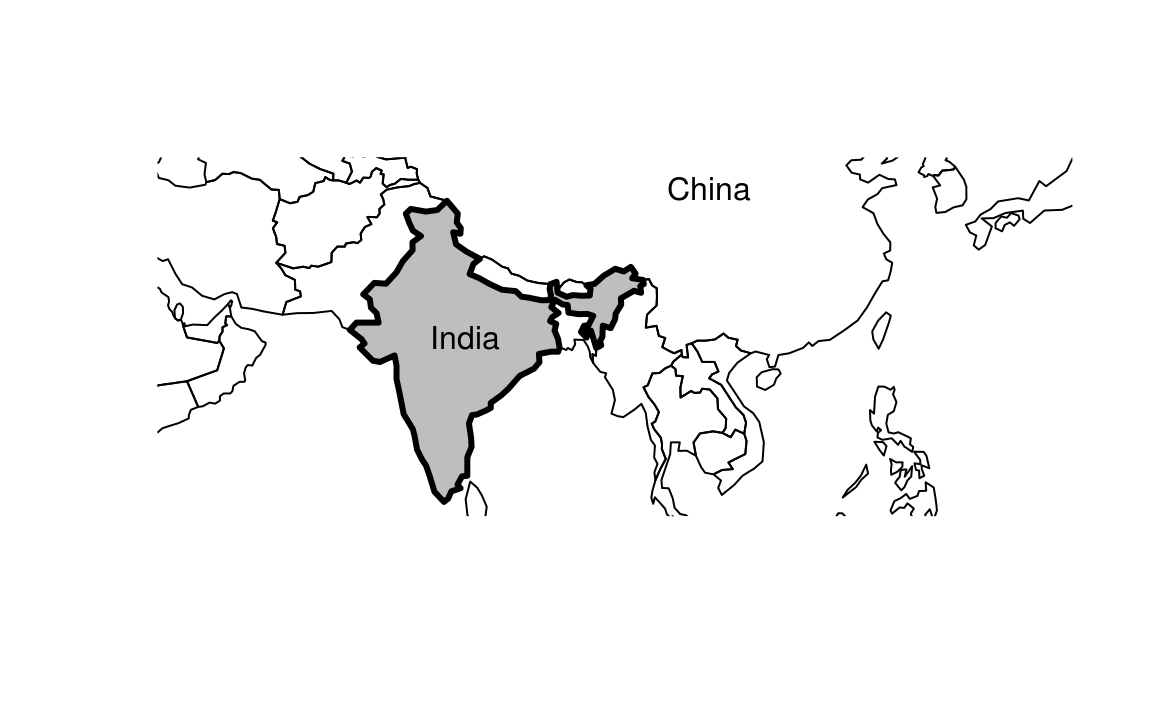
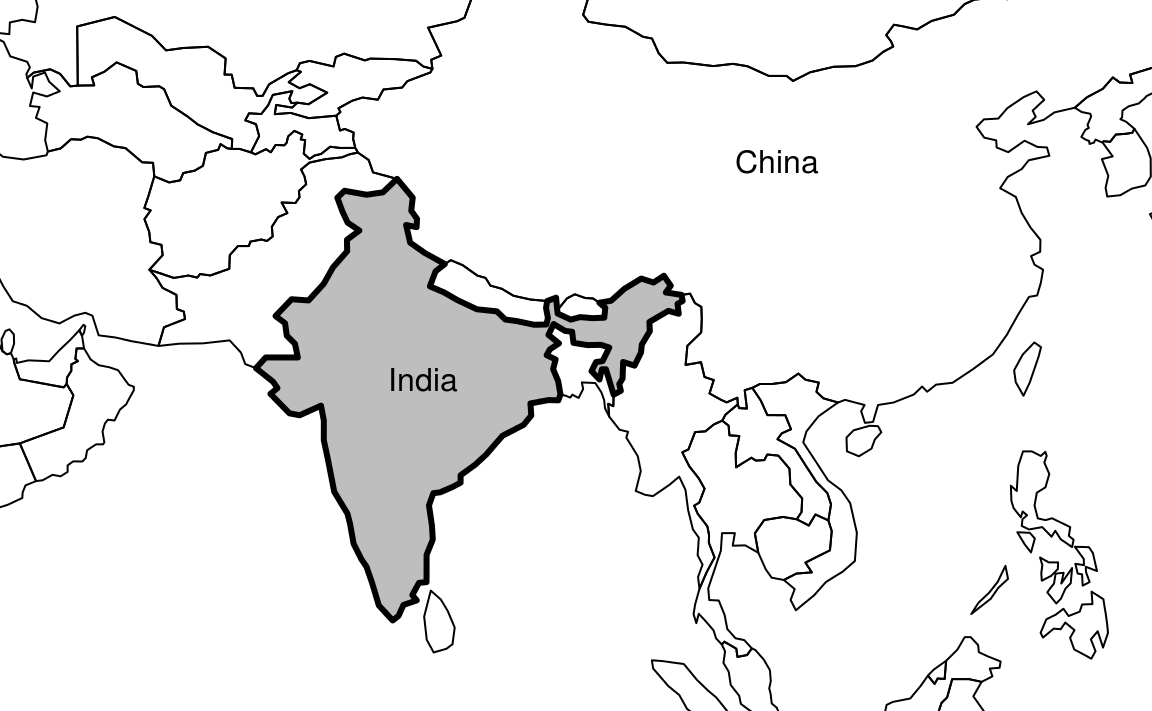
Updating book (4149)

diff --git a/index.html b/index.html
@@ -25,7 +25,7 @@
 <meta name="author" content="Robin Lovelace, Jakub Nowosad, Jannes Muenchow">
 
 
-<meta name="date" content="2018-09-03">
+<meta name="date" content="2018-09-04">
 
   <meta name="viewport" content="width=device-width, initial-scale=1">
   <meta name="apple-mobile-web-app-capable" content="yes">
@@ -408,7 +408,7 @@ code span.wa { color: #60a0b0; font-weight: bold; font-style: italic; } /* Warni
 <div id="header">
 <h1 class="title">Geocomputation with R</h1>
 <h4 class="author"><em>Robin Lovelace, Jakub Nowosad, Jannes Muenchow</em></h4>
-<h4 class="date"><em>2018-09-03</em></h4>
+<h4 class="date"><em>2018-09-04</em></h4>
 </div>
 <div id="welcome" class="section level1 unnumbered">
 <h1>Welcome</h1>
@@ -425,7 +425,7 @@ This approach encourages contributions, ensures reproducibility and provides acc
 </ol>
 <p>The online version of the book is hosted at <a href="https://geocompr.robinlovelace.net">geocompr.robinlovelace.net</a> and kept up-to-date thanks to <a href="https://travis-ci.org/Robinlovelace/geocompr">Travis</a>, which provides information on its ‘build status’ as follows:</p>
 <p><a href="https://travis-ci.org/Robinlovelace/geocompr"><img src="https://travis-ci.org/Robinlovelace/geocompr.svg?branch=master" alt="Build Status" /></a></p>
-<p>The version of the book you are reading now was built on 2018-09-03 and was built on <a href="https://travis-ci.org/Robinlovelace/geocompr">Travis</a>.</p>
+<p>The version of the book you are reading now was built on 2018-09-04 and was built on <a href="https://travis-ci.org/Robinlovelace/geocompr">Travis</a>.</p>
 </div>
 <div id="how-to-contribute" class="section level2 unnumbered">
 <h2>How to contribute?</h2>

diff --git a/spatial-class.html b/spatial-class.html
@@ -25,7 +25,7 @@
 <meta name="author" content="Robin Lovelace, Jakub Nowosad, Jannes Muenchow">
 
 
-<meta name="date" content="2018-09-03">
+<meta name="date" content="2018-09-04">
 
   <meta name="viewport" content="width=device-width, initial-scale=1">
   <meta name="apple-mobile-web-app-capable" content="yes">
@@ -667,7 +667,7 @@ This is used to plot India in the context of its giant Asian neighbors, with an 
 <a class="sourceLine" id="cb18-2" data-line-number="2"><span class="kw">plot</span>(<span class="kw">st_geometry</span>(india), <span class="dt">expandBB =</span> <span class="kw">c</span>(<span class="dv">0</span>, <span class="fl">0.2</span>, <span class="fl">0.1</span>, <span class="dv">1</span>), <span class="dt">col =</span> <span class="st">&quot;gray&quot;</span>, <span class="dt">lwd =</span> <span class="dv">3</span>)</a>
 <a class="sourceLine" id="cb18-3" data-line-number="3"><span class="kw">plot</span>(world_asia[<span class="dv">0</span>], <span class="dt">add =</span> <span class="ot">TRUE</span>)</a></code></pre></div>
 <div class="figure" style="text-align: center"><span id="fig:china"></span>
-<img src="figures/china-1.png" alt="India in context, demonstrating how the expandBB argument can be used to control zoom in static plots." width="576" />
+<img src="figures/china-1.png" alt="India in context, demonstrating how the expandBB argument can be used to control zoom in static plots." width="50%" />
 <p class="caption">
 Figure 2.6: India in context, demonstrating how the expandBB argument can be used to control zoom in static plots.
 </p>

diff --git a/adv-map.html b/adv-map.html
@@ -25,7 +25,7 @@
 <meta name="author" content="Robin Lovelace, Jakub Nowosad, Jannes Muenchow">
 
 
-<meta name="date" content="2018-09-03">
+<meta name="date" content="2018-09-04">
 
   <meta name="viewport" content="width=device-width, initial-scale=1">
   <meta name="apple-mobile-web-app-capable" content="yes">

diff --git a/algorithms.html b/algorithms.html
@@ -25,7 +25,7 @@
 <meta name="author" content="Robin Lovelace, Jakub Nowosad, Jannes Muenchow">
 
 
-<meta name="date" content="2018-09-03">
+<meta name="date" content="2018-09-04">
 
   <meta name="viewport" content="width=device-width, initial-scale=1">
   <meta name="apple-mobile-web-app-capable" content="yes">

diff --git a/attr.html b/attr.html
@@ -25,7 +25,7 @@
 <meta name="author" content="Robin Lovelace, Jakub Nowosad, Jannes Muenchow">
 
 
-<meta name="date" content="2018-09-03">
+<meta name="date" content="2018-09-04">
 
   <meta name="viewport" content="width=device-width, initial-scale=1">
   <meta name="apple-mobile-web-app-capable" content="yes">

diff --git a/conclusion.html b/conclusion.html
@@ -25,7 +25,7 @@
 <meta name="author" content="Robin Lovelace, Jakub Nowosad, Jannes Muenchow">
 
 
-<meta name="date" content="2018-09-03">
+<meta name="date" content="2018-09-04">
 
   <meta name="viewport" content="width=device-width, initial-scale=1">
   <meta name="apple-mobile-web-app-capable" content="yes">

diff --git a/eco.html b/eco.html
@@ -25,7 +25,7 @@
 <meta name="author" content="Robin Lovelace, Jakub Nowosad, Jannes Muenchow">
 
 
-<meta name="date" content="2018-09-03">
+<meta name="date" content="2018-09-04">
 
   <meta name="viewport" content="width=device-width, initial-scale=1">
   <meta name="apple-mobile-web-app-capable" content="yes">

diff --git a/geometric-operations.html b/geometric-operations.html
@@ -25,7 +25,7 @@
 <meta name="author" content="Robin Lovelace, Jakub Nowosad, Jannes Muenchow">
 
 
-<meta name="date" content="2018-09-03">
+<meta name="date" content="2018-09-04">
 
   <meta name="viewport" content="width=device-width, initial-scale=1">
   <meta name="apple-mobile-web-app-capable" content="yes">

diff --git a/gis.html b/gis.html
@@ -25,7 +25,7 @@
 <meta name="author" content="Robin Lovelace, Jakub Nowosad, Jannes Muenchow">
 
 
-<meta name="date" content="2018-09-03">
+<meta name="date" content="2018-09-04">
 
   <meta name="viewport" content="width=device-width, initial-scale=1">
   <meta name="apple-mobile-web-app-capable" content="yes">

diff --git a/intro.html b/intro.html
@@ -25,7 +25,7 @@
 <meta name="author" content="Robin Lovelace, Jakub Nowosad, Jannes Muenchow">
 
 
-<meta name="date" content="2018-09-03">
+<meta name="date" content="2018-09-04">
 
   <meta name="viewport" content="width=device-width, initial-scale=1">
   <meta name="apple-mobile-web-app-capable" content="yes">

diff --git a/location.html b/location.html
@@ -25,7 +25,7 @@
 <meta name="author" content="Robin Lovelace, Jakub Nowosad, Jannes Muenchow">
 
 
-<meta name="date" content="2018-09-03">
+<meta name="date" content="2018-09-04">
 
   <meta name="viewport" content="width=device-width, initial-scale=1">
   <meta name="apple-mobile-web-app-capable" content="yes">

diff --git a/preface.html b/preface.html
@@ -25,7 +25,7 @@
 <meta name="author" content="Robin Lovelace, Jakub Nowosad, Jannes Muenchow">
 
 
-<meta name="date" content="2018-09-03">
+<meta name="date" content="2018-09-04">
 
   <meta name="viewport" content="width=device-width, initial-scale=1">
   <meta name="apple-mobile-web-app-capable" content="yes">
